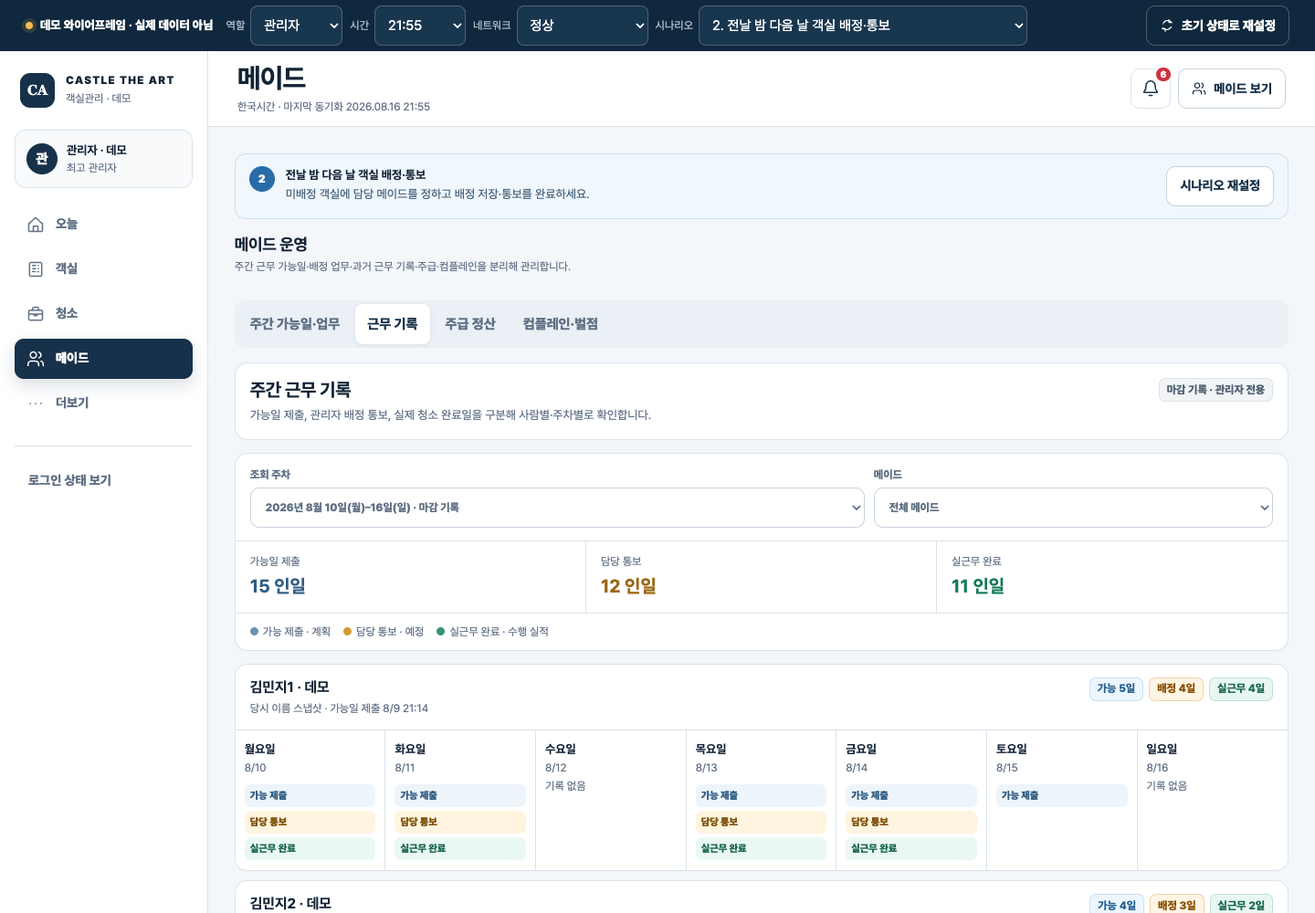
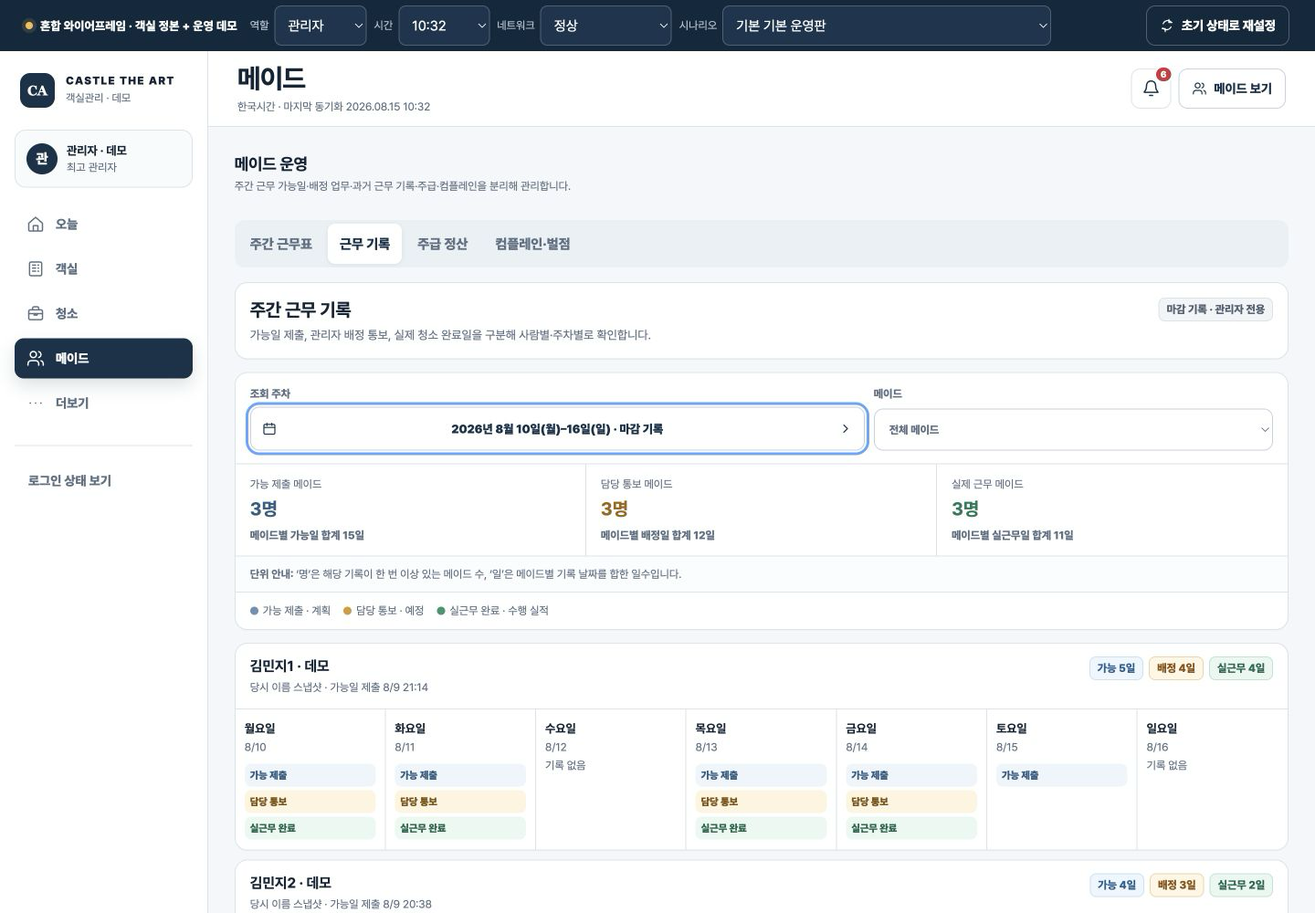
개선: 근무 기록 주차 달력과 명·일 단위를 분리하라

diff --git a/WIREFRAME/index.html b/WIREFRAME/index.html
@@ -1095,16 +1095,19 @@
     .work-history-hero > div { min-width:0; flex:1; }
     .work-history-hero h2 { margin:0 0 4px; font-size:1.25rem; }
     .work-history-hero p { margin:0; color:var(--muted); font-size:13px; }
-    .work-history-toolbar { display:grid; grid-template-columns:minmax(220px,1fr) minmax(180px,.65fr); gap:10px; padding:14px 16px; border-bottom:1px solid var(--line); }
-    .work-history-toolbar label { display:grid; gap:5px; color:var(--muted); font-size:12px; font-weight:800; }
+    .work-history-toolbar { display:grid; grid-template-columns:minmax(260px,1fr) minmax(180px,.65fr); gap:10px; padding:14px 16px; border-bottom:1px solid var(--line); }
+    .work-history-toolbar label, .work-history-week-field { display:grid; gap:5px; color:var(--muted); font-size:12px; font-weight:800; }
+    .work-history-week-picker { width:100%; color:var(--navy); }
     .work-history-summary { display:grid; grid-template-columns:repeat(3,minmax(0,1fr)); border-bottom:1px solid var(--line); }
-    .work-history-summary > div { min-height:78px; padding:13px 16px; border-right:1px solid var(--line); }
+    .work-history-summary > div { min-height:96px; padding:13px 16px; border-right:1px solid var(--line); }
     .work-history-summary > div:last-child { border-right:0; }
     .work-history-summary span { display:block; color:var(--muted); font-size:12px; }
     .work-history-summary strong { display:block; margin-top:3px; font-size:1.25rem; }
+    .work-history-summary small { display:block; margin-top:5px; color:var(--muted); font-size:12px; font-weight:750; }
     .work-history-summary .planned strong { color:#315d83; }
     .work-history-summary .assigned strong { color:#9a6813; }
     .work-history-summary .completed strong { color:var(--green); }
+    .work-history-unit-note { margin:0; padding:10px 16px; border-bottom:1px solid var(--line); color:var(--muted); background:#fbfcfe; font-size:12px; line-height:1.55; }
     .work-history-legend { display:flex; flex-wrap:wrap; gap:8px 14px; padding:11px 16px; color:var(--muted); font-size:12px; }
     .work-history-legend span { display:inline-flex; align-items:center; gap:5px; }
     .history-dot { width:9px; height:9px; border-radius:50%; background:#6b91b2; }
@@ -1190,7 +1193,7 @@
       .work-history-hero { flex-direction:column; }
       .work-history-toolbar { grid-template-columns:1fr; padding:13px; }
       .work-history-summary { grid-template-columns:1fr; }
-      .work-history-summary > div { min-height:64px; border-right:0; border-bottom:1px solid var(--line); }
+      .work-history-summary > div { min-height:84px; border-right:0; border-bottom:1px solid var(--line); }
       .work-history-summary > div:last-child { border-bottom:0; }
       .work-history-person-head { flex-direction:column; }
       .work-history-counts { justify-content:flex-start; }
@@ -1600,7 +1603,7 @@
           detail:state.detail?{type:String(state.detail.type),id:String(state.detail.id),...(state.detail.mode?{mode:String(state.detail.mode)}:{})}:null,
           date:state.selectedDate,filter:state.roomFilter,typeFilter:state.roomTypeFilter,q:state.roomSearch,
           scrollY:Math.max(0,Math.round(Number(scrollY)||0)),loggedIn:state.loggedIn!==false,
-          adminMaidTab:state.adminMaidTab,workHistoryWeek:state.workHistoryWeek,workHistoryMaid:state.workHistoryMaid,cleaningTab:state.cleaningTab,assignmentTypeFilter:state.assignmentTypeFilter,adminPayWeek:state.adminPayWeek,
+          adminMaidTab:state.adminMaidTab,workHistoryWeek:state.workHistoryWeek,workHistoryMaid:state.workHistoryMaid,calendarContext:state.calendarContext,calendarMonth:state.calendarMonth,cleaningTab:state.cleaningTab,assignmentTypeFilter:state.assignmentTypeFilter,adminPayWeek:state.adminPayWeek,
           maidPayFilter:state.maidPayFilter,maidPayOpenWeek:state.maidPayOpenWeek,maidPaySelectedWeek:state.maidPaySelectedWeek,
           templateChange:pendingTemplateChange?cloneHistoryPayload(pendingTemplateChange):null
         };
@@ -1704,8 +1707,11 @@
         if(['all',...Object.keys(ROOM_TYPES)].includes(route.typeFilter))state.roomTypeFilter=route.typeFilter;
         if(/^\d{0,6}$/.test(route.q||''))state.roomSearch=route.q||'';
         if(['workforce','history','pay','complaints'].includes(route.adminMaidTab))state.adminMaidTab=route.adminMaidTab;
-        if(/^2026-\d{2}-\d{2}$/.test(route.workHistoryWeek||''))state.workHistoryWeek=route.workHistoryWeek;
+        const restoredWorkHistoryWeek=normalizeWorkHistoryWeek(route.workHistoryWeek);
+        if(restoredWorkHistoryWeek)state.workHistoryWeek=restoredWorkHistoryWeek;
         if(route.workHistoryMaid==='all'||MAIDS.some(maid=>maid.id===route.workHistoryMaid))state.workHistoryMaid=route.workHistoryMaid;
+        state.calendarContext=['room','admin-pay','maid-pay','work-history'].includes(route.calendarContext)?route.calendarContext:null;
+        if(/^\d{4}-(0[1-9]|1[0-2])$/.test(route.calendarMonth||''))state.calendarMonth=route.calendarMonth;
         if(['assignment','progress','inspection','done'].includes(route.cleaningTab))state.cleaningTab=route.cleaningTab;
         if(['all',...Object.keys(ROOM_TYPES)].includes(route.assignmentTypeFilter))state.assignmentTypeFilter=route.assignmentTypeFilter;
         const restoredAdminPayWeek=normalizePayWeek(route.adminPayWeek);
@@ -2519,6 +2525,14 @@
         const start=weekStartIso(value);
         return start<='2026-08-10'?start:null;
       }
+      function normalizeWorkHistoryWeek(value) {
+        if(!/^\d{4}-\d{2}-\d{2}$/.test(value||''))return null;
+        const date=dateObject(value);
+        if(dateIso(date)!==value)return null;
+        const start=weekStartIso(value);
+        return start<='2026-08-17'?start:null;
+      }
+      function workHistoryCalendarAllowed() { return state.loggedIn!==false&&state.role==='admin'&&state.adminView==='maids'&&state.adminMaidTab==='history'; }
       function weekRangeLabel(start,withYear=false) {
         const from=dateObject(start),to=new Date(from);to.setDate(from.getDate()+6);
         const prefix=withYear?`${from.getFullYear()}년 `:'';
@@ -2538,16 +2552,17 @@
 
       function calendarMarkup() {
         const [year,month]=state.calendarMonth.split('-').map(Number);
-        const payMode=state.calendarContext==='admin-pay'||state.calendarContext==='maid-pay';
-        const paySelected=state.calendarContext==='admin-pay'?state.adminPayWeek:(state.maidPaySelectedWeek||state.maidPayOpenWeek||'2026-08-03');
-        const first=new Date(year,month-1,1), offset=payMode?(first.getDay()+6)%7:first.getDay(), start=new Date(year,month-1,1-offset);
+        const weekMode=['admin-pay','maid-pay','work-history'].includes(state.calendarContext);
+        const weekSelectedStart=state.calendarContext==='admin-pay'?state.adminPayWeek:state.calendarContext==='maid-pay'?(state.maidPaySelectedWeek||state.maidPayOpenWeek||'2026-08-03'):state.workHistoryWeek;
+        const latestWeek=state.calendarContext==='work-history'?'2026-08-17':'2026-08-10';
+        const first=new Date(year,month-1,1), offset=weekMode?(first.getDay()+6)%7:first.getDay(), start=new Date(year,month-1,1-offset);
         const days=Array.from({length:42},(_,i)=>{const d=new Date(start);d.setDate(start.getDate()+i);return d;});
         return `<div class="calendar-backdrop" data-action="calendar-backdrop"><section class="calendar-dialog" role="dialog" aria-modal="true" aria-labelledby="calendar-title">
           <div class="calendar-head"><button class="icon-btn" type="button" data-action="calendar-month" data-offset="-1" aria-label="이전 달">${icon('chevronLeft')}</button><strong id="calendar-title">${year}년 ${month}월</strong><button class="icon-btn" type="button" data-action="calendar-month" data-offset="1" aria-label="다음 달">${icon('chevronRight')}</button></div>
-          ${payMode?`<p class="pay-week-calendar-note">날짜를 누르면 그 날짜가 포함된 월요일–일요일 주차를 선택합니다.</p>`:''}
-          <div class="calendar-week" aria-hidden="true">${(payMode?['월','화','수','목','금','토','일']:['일','월','화','수','목','금','토']).map(v=>`<span>${v}</span>`).join('')}</div>
-          <div class="calendar-grid">${days.map(d=>{const iso=dateIso(d), other=d.getMonth()!==month-1, today=iso==='2026-08-15', weekSelected=payMode&&weekStartIso(iso)===paySelected, selected=payMode?iso===paySelected:iso===state.selectedDate, future=payMode&&weekStartIso(iso)>'2026-08-10';return `<button type="button" class="calendar-day ${other?'other':''} ${today?'today':''} ${weekSelected?'week-selected':''} ${selected?'selected':''}" data-action="calendar-select" data-date="${iso}" ${payMode?`aria-pressed="${weekSelected}"`:`aria-current="${selected?'date':'false'}"`} aria-label="${d.getFullYear()}년 ${d.getMonth()+1}월 ${d.getDate()}일${today?' 오늘':''}${weekSelected?' 선택 주차':''}" ${future?'disabled':''}>${d.getDate()}</button>`;}).join('')}</div>
-          <div class="calendar-foot">${button(payMode?'이번 주':'오늘로 이동','calendar-today','outline')}${button('닫기','calendar-close','soft')}</div>
+          ${weekMode?`<p class="pay-week-calendar-note">날짜를 누르면 그 날짜가 포함된 월요일–일요일 주차를 선택합니다.</p>`:''}
+          <div class="calendar-week" aria-hidden="true">${(weekMode?['월','화','수','목','금','토','일']:['일','월','화','수','목','금','토']).map(v=>`<span>${v}</span>`).join('')}</div>
+          <div class="calendar-grid">${days.map(d=>{const iso=dateIso(d), other=d.getMonth()!==month-1, today=iso==='2026-08-15', weekSelected=weekMode&&weekStartIso(iso)===weekSelectedStart, selected=weekMode?iso===weekSelectedStart:iso===state.selectedDate, future=weekMode&&weekStartIso(iso)>latestWeek;return `<button type="button" class="calendar-day ${other?'other':''} ${today?'today':''} ${weekSelected?'week-selected':''} ${selected?'selected':''}" data-action="calendar-select" data-date="${iso}" ${weekMode?`aria-pressed="${weekSelected}"`:`aria-current="${selected?'date':'false'}"`} aria-label="${d.getFullYear()}년 ${d.getMonth()+1}월 ${d.getDate()}일${today?' 오늘':''}${weekSelected?' 선택 주차':''}" ${future?'disabled':''}>${d.getDate()}</button>`;}).join('')}</div>
+          <div class="calendar-foot">${button(weekMode?'이번 주':'오늘로 이동','calendar-today','outline')}${button('닫기','calendar-close','soft')}</div>
         </section></div>`;
       }
       function openCalendar(trigger=document.activeElement,context='room') {
@@ -2555,10 +2570,10 @@
         modalTrigger=trigger;
         document.getElementById('modal-root').innerHTML=calendarMarkup();
         setModalBackgroundLocked(true);document.body.classList.add('modal-open');
-        registerModalHistory({kind:'calendar'});
-        requestAnimationFrame(()=>(document.querySelector('.calendar-day.selected')||document.querySelector('.calendar-day'))?.focus());
+        registerModalHistory({kind:'calendar',payload:{context,month:state.calendarMonth}});
+        requestAnimationFrame(()=>(document.querySelector('.calendar-day.selected:not(:disabled)')||document.querySelector('.calendar-day:not(:disabled)')||document.querySelector('[data-action="calendar-close"]'))?.focus());
       }
-      function rerenderCalendar() { document.getElementById('modal-root').innerHTML=calendarMarkup();registerModalHistory();requestAnimationFrame(()=>(document.querySelector('.calendar-day.selected')||document.querySelector('.calendar-day'))?.focus()); }
+      function rerenderCalendar() { document.getElementById('modal-root').innerHTML=calendarMarkup();registerModalHistory({kind:'calendar',payload:{context:state.calendarContext,month:state.calendarMonth}});requestAnimationFrame(()=>(document.querySelector('.calendar-day.selected:not(:disabled)')||document.querySelector('.calendar-day:not(:disabled)')||document.querySelector('[data-action="calendar-close"]'))?.focus()); }
 
       function renderAccordion(key,title,count,body,open=false) {
         const expanded=state.todaySections[key] ?? open;
@@ -2895,12 +2910,14 @@
         return [currentWorkHistoryWeek(),...fixtures];
       }
       function renderWorkHistory() {
-        const weeks=workHistoryWeeks(),week=weeks.find(item=>item.start===state.workHistoryWeek)||weeks[1]||weeks[0],selectedMaid=state.workHistoryMaid||'all';
+        const weeks=workHistoryWeeks(),week=weeks.find(item=>item.start===state.workHistoryWeek)||{start:state.workHistoryWeek,status:'기록 없음',records:{}},selectedMaid=state.workHistoryMaid||'all';
         const people=MAIDS.filter(maid=>selectedMaid==='all'||maid.id===selectedMaid).map(maid=>({maid,record:week.records[maid.id]})).filter(item=>item.record);
         const totals=people.reduce((sum,item)=>({submitted:sum.submitted+item.record.submitted.length,assigned:sum.assigned+item.record.assigned.length,completed:sum.completed+item.record.completed.length}),{submitted:0,assigned:0,completed:0});
+        const maidCounts={submitted:people.filter(item=>item.record.submitted.length>0).length,assigned:people.filter(item=>item.record.assigned.length>0).length,completed:people.filter(item=>item.record.completed.length>0).length};
         const dayNames=['월','화','수','목','금','토','일'];
         const cards=people.map(({maid,record})=>{const days=dayNames.map((name,index)=>{const iso=addIsoDays(week.start,index),flags=[];if(record.submitted.includes(index))flags.push('<span class="work-history-flag">가능 제출</span>');if(record.assigned.includes(index))flags.push('<span class="work-history-flag assigned">담당 통보</span>');if(record.completed.includes(index))flags.push('<span class="work-history-flag completed">실근무 완료</span>');return `<div class="work-history-day"><strong>${name}요일</strong><span>${shortIsoDate(iso)}</span>${flags.length?`<div class="work-history-flags">${flags.join('')}</div>`:'<span class="work-history-empty">기록 없음</span>'}</div>`;}).join('');return `<article class="card work-history-person"><div class="work-history-person-head"><div><h3>${esc(record.nameSnapshot)} · 데모</h3><p>당시 이름 스냅샷 · 가능일 제출 ${esc(record.submittedAt)}${record.submissionVersions?` · 제출 버전 ${record.submissionVersions}개 보존`:''}</p></div><div class="work-history-counts">${statusBadge(`가능 ${record.submitted.length}일`,'blue')}${statusBadge(`배정 ${record.assigned.length}일`,'amber')}${statusBadge(`실근무 ${record.completed.length}일`,'green')}</div></div><div class="work-history-days" aria-label="${esc(record.nameSnapshot)} ${weekRangeLabel(week.start)} 주간 기록">${days}</div></article>`;}).join('');
-        return `<div class="work-history-page"><section class="card work-history-hero"><div><h2>주간 근무 기록</h2><p>가능일 제출, 관리자 배정 통보, 실제 청소 완료일을 구분해 사람별·주차별로 확인합니다.</p></div>${statusBadge(`${week.status} · 관리자 전용`,week.status==='계획 중'?'blue':'neutral')}</section><section class="card"><div class="work-history-toolbar"><label for="work-history-week">조회 주차<select id="work-history-week" class="select-control" data-control="work-history-week">${weeks.map(item=>`<option value="${item.start}" ${item.start===week.start?'selected':''}>${weekRangeLabel(item.start,true)} · ${item.status}</option>`).join('')}</select></label><label for="work-history-maid">메이드<select id="work-history-maid" class="select-control" data-control="work-history-maid"><option value="all" ${selectedMaid==='all'?'selected':''}>전체 메이드</option>${MAIDS.map(maid=>`<option value="${maid.id}" ${selectedMaid===maid.id?'selected':''}>${esc(maid.name)}</option>`).join('')}</select></label></div><div class="work-history-summary"><div class="planned"><span>가능일 제출</span><strong>${totals.submitted} 인일</strong></div><div class="assigned"><span>담당 통보</span><strong>${totals.assigned} 인일</strong></div><div class="completed"><span>실근무 완료</span><strong>${totals.completed} 인일</strong></div></div><div class="work-history-legend"><span><i class="history-dot"></i>가능 제출 · 계획</span><span><i class="history-dot assigned"></i>담당 통보 · 예정</span><span><i class="history-dot completed"></i>실근무 완료 · 수행 실적</span></div></section><div class="work-history-list">${cards}</div><section class="card work-history-contract"><p><strong>기록 기준:</strong> 가능일은 제출 버전, 배정일은 관리자 통보 이벤트, 실근무일은 정상 청소 수행 회차의 현장 완료일입니다. 가능일만 제출한 날짜는 실제 근무로 세지 않으며, 과거 주차는 현재 제출·재배정으로 덮어쓰지 않습니다. 이 화면은 서버 영속 저장이 아닌 결정적 데모 fixture입니다.</p></section></div>`;
+        const list=cards||`<section class="card empty-state"><h3>이 주차에는 저장된 근무 기록이 없습니다.</h3><p>다른 주차를 달력에서 선택하거나 메이드 필터를 바꿔 보세요.</p></section>`;
+        return `<div class="work-history-page"><section class="card work-history-hero"><div><h2>주간 근무 기록</h2><p>가능일 제출, 관리자 배정 통보, 실제 청소 완료일을 구분해 사람별·주차별로 확인합니다.</p></div>${statusBadge(`${week.status} · 관리자 전용`,week.status==='계획 중'?'blue':'neutral')}</section><section class="card"><div class="work-history-toolbar"><div class="work-history-week-field"><span id="work-history-week-label">조회 주차</span><button class="pay-week-picker work-history-week-picker" type="button" data-action="open-work-history-calendar" aria-haspopup="dialog" aria-labelledby="work-history-week-label work-history-week-value">${icon('calendar','icon-sm')}<span id="work-history-week-value">${weekRangeLabel(week.start,true)} · ${week.status}</span>${icon('chevronRight','icon-sm')}</button></div><label for="work-history-maid">메이드<select id="work-history-maid" class="select-control" data-control="work-history-maid"><option value="all" ${selectedMaid==='all'?'selected':''}>전체 메이드</option>${MAIDS.map(maid=>`<option value="${maid.id}" ${selectedMaid===maid.id?'selected':''}>${esc(maid.name)}</option>`).join('')}</select></label></div><div class="work-history-summary"><div class="planned"><span>가능 제출 메이드</span><strong>${maidCounts.submitted}명</strong><small>메이드별 가능일 합계 ${totals.submitted}일</small></div><div class="assigned"><span>담당 통보 메이드</span><strong>${maidCounts.assigned}명</strong><small>메이드별 배정일 합계 ${totals.assigned}일</small></div><div class="completed"><span>실제 근무 메이드</span><strong>${maidCounts.completed}명</strong><small>메이드별 실근무일 합계 ${totals.completed}일</small></div></div><p class="work-history-unit-note"><strong>단위 안내:</strong> ‘명’은 해당 기록이 한 번 이상 있는 메이드 수, ‘일’은 메이드별 기록 날짜를 합한 일수입니다.</p><div class="work-history-legend"><span><i class="history-dot"></i>가능 제출 · 계획</span><span><i class="history-dot assigned"></i>담당 통보 · 예정</span><span><i class="history-dot completed"></i>실근무 완료 · 수행 실적</span></div></section><div class="work-history-list">${list}</div><section class="card work-history-contract"><p><strong>기록 기준:</strong> 가능일은 제출 버전, 배정일은 관리자 통보 이벤트, 실근무일은 정상 청소 수행 회차의 현장 완료일입니다. 가능일만 제출한 날짜는 실제 근무로 세지 않으며, 과거 주차는 현재 제출·재배정으로 덮어쓰지 않습니다. 이 화면은 서버 영속 저장이 아닌 결정적 데모 fixture입니다.</p></section></div>`;
       }
 
       function renderMaids() {
@@ -3760,7 +3777,7 @@
         const confirm=document.querySelector('[data-action="confirm-start-deactivation-v2"]');if(confirm)confirm.disabled=isLocked();
       }
 
-      const rebuiltActions=new Set(['toggle-demo','reset','switch-role','nav','filter-rooms','back','close-modal','backdrop-close','room-detail','cleaning-detail','maid-detail','complaint-detail','pay-detail','template','template-detail','template-back-list','template-edit','template-cancel-edit','template-review','template-save','inspection-photo','open-room-export','export-rooms-csv','export-rooms-xls','open-calendar','open-pay-calendar','calendar-backdrop','calendar-close','calendar-month','calendar-select','calendar-today','date-shift','date-today','toggle-section','clear-room-filters','pin-show','pin-hide','pin-edit','pin-clear','pin-random','pin-review','pin-back','pin-save','reservation-edit','new-reservation','save-reservation-v2','create-stayover','confirm-stayover','operation-status','confirm-operation-stop','resume-operation','candle-change','task-candle-change','direct-assign','confirm-direct-assign','cleaning-tab','assignment-type-filter','admin-maid-tab','go-today','go-workforce','go-work-history','go-payroll','go-complaints','go-cleaning-drafts','go-cleaning-assignment','go-inspection','go-open','go-schedule','go-my','go-maid-pay','toggle-maid-pay-week','clear-maid-pay-week','new-cleaning','confirm-new-cleaning','toggle-week-day','submit-week-availability','edit-week-availability','request-availability-change','move-assignment-order','save-assignments','set-availability','change-availability','confirm-off-active','claim-job','confirm-claim','start-cleaning','confirm-start','add-task-photo','add-task-photos','retry-task-photo','retry-all-task-photos','field-complete-v2','submit-cleaning-v2','approve-inspection-v2','reject-inspection-v2','confirm-approve-v2','confirm-reject-v2','toggle-payment','confirm-toggle-payment','confirm-reverse-payment','undo-payment','delete-complaint','undo-complaint','publish-selected','confirm-publish','retry-network','alerts','audit-log','rates','logout','request-cancel','confirm-request-cancel','cancel-review','confirm-cancel','rule-complaint-v2','ack-complaint','object-complaint','confirm-objection','close-complaint-v2','correct-complaint-v2','confirm-correct-complaint-v2','reclean-existing','demo-info','notification-permission','confirm-notification-permission']);
+      const rebuiltActions=new Set(['toggle-demo','reset','switch-role','nav','filter-rooms','back','close-modal','backdrop-close','room-detail','cleaning-detail','maid-detail','complaint-detail','pay-detail','template','template-detail','template-back-list','template-edit','template-cancel-edit','template-review','template-save','inspection-photo','open-room-export','export-rooms-csv','export-rooms-xls','open-calendar','open-pay-calendar','open-work-history-calendar','calendar-backdrop','calendar-close','calendar-month','calendar-select','calendar-today','date-shift','date-today','toggle-section','clear-room-filters','pin-show','pin-hide','pin-edit','pin-clear','pin-random','pin-review','pin-back','pin-save','reservation-edit','new-reservation','save-reservation-v2','create-stayover','confirm-stayover','operation-status','confirm-operation-stop','resume-operation','candle-change','task-candle-change','direct-assign','confirm-direct-assign','cleaning-tab','assignment-type-filter','admin-maid-tab','go-today','go-workforce','go-work-history','go-payroll','go-complaints','go-cleaning-drafts','go-cleaning-assignment','go-inspection','go-open','go-schedule','go-my','go-maid-pay','toggle-maid-pay-week','clear-maid-pay-week','new-cleaning','confirm-new-cleaning','toggle-week-day','submit-week-availability','edit-week-availability','request-availability-change','move-assignment-order','save-assignments','set-availability','change-availability','confirm-off-active','claim-job','confirm-claim','start-cleaning','confirm-start','add-task-photo','add-task-photos','retry-task-photo','retry-all-task-photos','field-complete-v2','submit-cleaning-v2','approve-inspection-v2','reject-inspection-v2','confirm-approve-v2','confirm-reject-v2','toggle-payment','confirm-toggle-payment','confirm-reverse-payment','undo-payment','delete-complaint','undo-complaint','publish-selected','confirm-publish','retry-network','alerts','audit-log','rates','logout','request-cancel','confirm-request-cancel','cancel-review','confirm-cancel','rule-complaint-v2','ack-complaint','object-complaint','confirm-objection','close-complaint-v2','correct-complaint-v2','confirm-correct-complaint-v2','reclean-existing','demo-info','notification-permission','confirm-notification-permission']);
       ['resolve-conflict-v2','confirm-conflict-v2','deactivate-maid-v2','confirm-start-deactivation-v2','complete-deactivation-v2','admin-pay-week','export-rooms-xlsx','room-issue-photo','choose-room-issue-files','remove-room-issue-photo','save-room-issue','bomb-room-photo','choose-bomb-room-files','remove-bomb-room-photo','add-demo-bomb-room-photos','save-bomb-room-report','approve-bomb-room','reject-bomb-room','confirm-approve-bomb-room','confirm-reject-bomb-room'].forEach(action=>rebuiltActions.add(action));
       const deprecatedStateActions=new Set(['add-photo','add-photos','retry-photo','field-complete','submit-cleaning','approve-inspection','reject-inspection','confirm-approve','confirm-reject','recover-candle','confirm-candle','save-reservation','show-pin','hide-pin','resolve-conflict','confirm-conflict','deactivate-maid','confirm-deactivate','start-payment','confirm-payment','finish-payment','payment-check','payment-open','rule-complaint','confirm-ruling','close-complaint','correct-complaint','publish-template','change-availability','confirm-off-active']);
       deprecatedStateActions.forEach(action=>rebuiltActions.add(action));
@@ -3923,24 +3940,30 @@
           const selected=context==='maid-pay'?(state.maidPaySelectedWeek||state.maidPayOpenWeek||'2026-08-03'):(state.adminPayWeek||'2026-08-03');
           state.calendarMonth=selected.slice(0,7);openCalendar(el,context);return;
         }
+        if(a==='open-work-history-calendar'){if(!workHistoryCalendarAllowed()){toast('관리자 근무 기록 화면에서만 주차를 선택할 수 있습니다.','error');return;}state.calendarMonth=state.workHistoryWeek.slice(0,7);openCalendar(el,'work-history');return;}
         if(a==='calendar-month'){const [y,m]=state.calendarMonth.split('-').map(Number),d=new Date(y,m-1+Number(el.dataset.offset),1);state.calendarMonth=`${d.getFullYear()}-${String(d.getMonth()+1).padStart(2,'0')}`;rerenderCalendar();return;}
         if(a==='calendar-select'){
           const context=state.calendarContext;
-          if(context==='admin-pay'||context==='maid-pay'){
-            const start=weekStartIso(el.dataset.date);
+          if(context==='admin-pay'||context==='maid-pay'||context==='work-history'){
+            if(context==='work-history'&&!workHistoryCalendarAllowed()){closeModal();state.calendarContext=null;render();toast('관리자 근무 기록 화면에서만 주차를 바꿀 수 있습니다.','error');return;}
+            const start=context==='work-history'?normalizeWorkHistoryWeek(el.dataset.date):weekStartIso(el.dataset.date);
+            if(!start){toast('선택할 수 없는 주차입니다.','error');return;}
             if(context==='admin-pay')state.adminPayWeek=start;
-            else {state.maidPaySelectedWeek=start;state.maidPayOpenWeek=start;state.maidPayFilter='all';}
-            closeModal();state.calendarContext=null;render();requestAnimationFrame(()=>document.querySelector(`[data-action="open-pay-calendar"][data-context="${context}"]`)?.focus());toast(`${weekRangeLabel(start)} 지급 이력을 표시합니다.`);return;
+            else if(context==='maid-pay'){state.maidPaySelectedWeek=start;state.maidPayOpenWeek=start;state.maidPayFilter='all';}
+            else state.workHistoryWeek=start;
+            closeModal();state.calendarContext=null;render();requestAnimationFrame(()=>document.querySelector(context==='work-history'?'[data-action="open-work-history-calendar"]':`[data-action="open-pay-calendar"][data-context="${context}"]`)?.focus());toast(`${weekRangeLabel(start)} ${context==='work-history'?'근무 기록':'지급 이력'}을 표시합니다.`);return;
           }
           state.selectedDate=el.dataset.date;state.calendarMonth=state.selectedDate.slice(0,7);closeModal();state.calendarContext=null;render();requestAnimationFrame(()=>document.querySelector('[data-action="open-calendar"]')?.focus());toast(`${dateLabel()} 현황을 표시합니다.`);return;
         }
         if(a==='calendar-today'){
           const context=state.calendarContext;
-          if(context==='admin-pay'||context==='maid-pay'){
+          if(context==='admin-pay'||context==='maid-pay'||context==='work-history'){
+            if(context==='work-history'&&!workHistoryCalendarAllowed()){closeModal();state.calendarContext=null;render();toast('관리자 근무 기록 화면에서만 주차를 바꿀 수 있습니다.','error');return;}
             const start='2026-08-10';
             if(context==='admin-pay')state.adminPayWeek=start;
-            else {state.maidPaySelectedWeek=start;state.maidPayOpenWeek=start;state.maidPayFilter='all';}
-            closeModal();state.calendarContext=null;render();requestAnimationFrame(()=>document.querySelector(`[data-action="open-pay-calendar"][data-context="${context}"]`)?.focus());return;
+            else if(context==='maid-pay'){state.maidPaySelectedWeek=start;state.maidPayOpenWeek=start;state.maidPayFilter='all';}
+            else state.workHistoryWeek=start;
+            closeModal();state.calendarContext=null;render();requestAnimationFrame(()=>document.querySelector(context==='work-history'?'[data-action="open-work-history-calendar"]':`[data-action="open-pay-calendar"][data-context="${context}"]`)?.focus());return;
           }
           state.selectedDate='2026-08-15';state.calendarMonth='2026-08';closeModal();state.calendarContext=null;render();requestAnimationFrame(()=>document.querySelector('[data-action="open-calendar"]')?.focus());return;
         }
@@ -4272,7 +4295,7 @@
       });
 
       document.addEventListener('change',e=>{
-        const c=e.target.dataset.control;if(!c||!['role','maid-account','scenario','room-filter','room-type-filter','maid-pay-filter','work-history-week','work-history-maid','task-check','task-candle','room-issue-type','room-issue-files','bomb-room-files','complaint-type','conflict-step-v2','maid-deactivation-gate','assignment-maid'].includes(c))return;
+        const c=e.target.dataset.control;if(!c||!['role','maid-account','scenario','room-filter','room-type-filter','maid-pay-filter','work-history-maid','task-check','task-candle','room-issue-type','room-issue-files','bomb-room-files','complaint-type','conflict-step-v2','maid-deactivation-gate','assignment-maid'].includes(c))return;
         e.stopImmediatePropagation();
         if(c==='role'){maskPin();closeModal();state.role=e.target.value;state.detail=null;render();requestAnimationFrame(()=>document.querySelector('[data-control="role"]')?.focus());return;}
         if(c==='maid-account'){if(state.role!=='maid')return;maskPin();closeModal();state.currentMaidId=MAIDS.some(maid=>maid.id===e.target.value)?e.target.value:'m1';syncSignedInMaidAvailability();state.detail=null;render();requestAnimationFrame(()=>document.querySelector('[data-control="maid-account"]')?.focus());toast(`${signedInMaidName()} 메이드 데모 계정으로 전환했습니다.`);return;}
@@ -4280,7 +4303,6 @@
         if(c==='room-filter'){state.roomFilter=e.target.value;render();requestAnimationFrame(()=>document.querySelector('[data-control="room-filter"]')?.focus());return;}
         if(c==='room-type-filter'){state.roomTypeFilter=e.target.value;render();requestAnimationFrame(()=>document.querySelector('[data-control="room-type-filter"]')?.focus());return;}
         if(c==='maid-pay-filter'){state.maidPayFilter=e.target.value;state.maidPaySelectedWeek=null;const visibleIds={all:['2026-08-10','2026-08-03','2026-07-27','2026-07-20','2026-07-13','2026-07-06'],current:['2026-08-10'],last:['2026-08-03'],older:['2026-07-27','2026-07-20','2026-07-13','2026-07-06']}[state.maidPayFilter]||[];if(!visibleIds.includes(state.maidPayOpenWeek))state.maidPayOpenWeek=visibleIds[0]||null;render();requestAnimationFrame(()=>document.querySelector('[data-control="maid-pay-filter"]')?.focus());return;}
-        if(c==='work-history-week'){state.workHistoryWeek=e.target.value;render();requestAnimationFrame(()=>document.querySelector('[data-control="work-history-week"]')?.focus());return;}
         if(c==='work-history-maid'){state.workHistoryMaid=e.target.value;render();requestAnimationFrame(()=>document.querySelector('[data-control="work-history-maid"]')?.focus());return;}
         if(c==='task-check'){const no=e.target.dataset.room,item=e.target.value;if(!maidCanEditCleaning(no)){render();toast('본인 담당 청소 중 작업의 체크만 변경할 수 있습니다.','error');return;}taskState(no).checklist[item]=e.target.checked;render();requestAnimationFrame(()=>document.querySelector(`[data-control="task-check"][data-room="${no}"][value="${item}"]`)?.focus());return;}
         if(c==='task-candle'){const no=e.target.dataset.room;if(!maidCanEditCleaning(no)){render();toast('본인 담당 청소 중 작업의 촛불 결과만 변경할 수 있습니다.','error');return;}taskState(no).candle=Number(e.target.value);render();requestAnimationFrame(()=>document.querySelector(`[data-control="task-candle"][data-room="${no}"]`)?.focus());return;}

diff --git a/DOCS/16_WEEKLY_AVAILABILITY_ASSIGNMENT_POLICY.md b/DOCS/16_WEEKLY_AVAILABILITY_ASSIGNMENT_POLICY.md
@@ -21,7 +21,7 @@
 9. 순서는 객실별 담당 행이 아니라 메이드별 보드에서 같은 메이드에게 배정된 객실끼리만 위·아래로 조정한다. 담당을 바꾸면 해당 객실은 새 메이드 순서의 마지막으로 이동하고 이전·새 메이드 양쪽 순서를 연속 번호로 다시 계산한다.
 10. 담당 선택 목록에는 해당 날짜를 `근무 가능`으로 제출한 메이드만 표시한다. `근무 불가` 또는 `미제출` 메이드는 예외 배정할 수 없으며, 먼저 가능일 변경 요청을 승인해 일정 기록을 바로잡아야 한다.
 11. 모든 청소대상을 다 배정하지 못해도, 담당 메이드와 해당 메이드 안의 연속 청소 순서가 정해진 객실만 먼저 저장·통보할 수 있다. 미배정 객실은 대기 상태로 유지하고 추후 담당을 정한 시점에 추가 통보한다. 배정·순서 변경은 기존 담당 구간과 이전 순서를 삭제하지 않고 변경 이력을 추가한다.
-12. 가능일 제출 버전, 관리자 배정·순서 통보일, 실제 청소 수행 완료일을 서로 다른 기록으로 주차별 보존하고 관리자가 사람·주차를 선택해 과거 기록을 조회한다.
+12. 가능일 제출 버전, 관리자 배정·순서 통보일, 실제 청소 수행 완료일을 서로 다른 기록으로 주차별 보존하고 관리자가 조회 주차(월요일–일요일)를 달력에서 고른 뒤 메이드별 과거 기록을 조회한다. 요약은 기록이 있는 고유 메이드를 `N명`, 메이드별 기록 날짜 합계를 `N일`로 분리하고 두 뜻을 섞은 단위는 사용하지 않는다.
 
 ### 예약 시각 기반 특수 입퇴실 판정
 
@@ -80,6 +80,7 @@
 - 청소대상 타입 필터: `전체 / 스탠다드 더블 로프트 / 프리미엄 더블 로프트 / 파셜 오션뷰 프리미엄 더블 로프트 / 파셜 오션뷰 패밀리 투룸 로프트`
 - 청소대상 등록 근거: `자동 · 내일 체크아웃 / 자동 · 연박 청소 신청 / 직접 등록`
 - 주간 근무 기록: `가능 제출(계획) / 담당 통보(예정) / 실근무 완료(수행 실적)`
+- 주간 근무 기록 요약 단위: `해당 기록이 한 번 이상 있는 메이드 N명 / 메이드별 기록 날짜 합계 N일`
 - 폭탄방 신고: `미신고 / 검수 대기 / 폭탄방 승인 · ×2 / 폭탄방 미인정`
 - 폭탄방 수익: `기본 청소요금 스냅샷 / 폭탄방 추가요금 / 해당 객실 확정 총액 / 적립 없음`
 - 재청소: `최초 청소한 본인 자동 귀속 / 무급 0원 / 타 메이드 이관 없음 / 폭탄방 추가요금·수익 원장 없음`
@@ -117,7 +118,7 @@
 - 담당을 선택·해제·변경할 때마다 근무 가능 메이드별 네 객실 타입의 배정 개수가 즉시 갱신된다. 0건인 타입도 숨기지 않으며, 타입 필터를 바꿔도 전체 배정 기준 개수는 유지하고 미배정 객실은 제외한다.
 - 미배정 객실이 있어도 담당이 정해진 객실이 한 건 이상이고, 그 담당이 해당 날짜 근무 가능자이며 메이드별 순서가 1부터 연속되면 배정된 객실만 저장·통보할 수 있다. 담당이 정해진 변경 건이 없거나 담당 가능일·순서가 유효하지 않을 때만 저장·통보가 잠긴다.
 - 부분 저장 뒤 해당 메이드의 내 업무·알림은 이번에 확정된 객실을 지정 순서대로 표시하고, 미배정 객실은 관리자 대기 영역에 그대로 남는다. 관리자 이력에는 이번 통보 수·누적 통보 수·남은 미배정 수와 이전·새 담당·순서가 함께 남는다.
-- 관리자는 주차·메이드를 필터링해 가능 제출일·배정 통보일·실근무 완료일을 과거에도 구분해 조회할 수 있다.
+- 관리자는 월요일–일요일 단위 달력에서 조회 주차를 고르고 메이드를 필터링해 가능 제출일·배정 통보일·실근무 완료일을 과거에도 구분해 조회할 수 있다. 인원은 `N명`, 날짜 합계는 `N일`로 각각 표시한다.
 - 메이드 역할로 관리자 배정 화면·상세 URL에 직접 진입할 수 없다.
 - 메이드는 본인 담당 객실에서 청소 시작 전부터 업로드 단계까지, 전체 제출 전에 이미지 1장 이상을 첨부해야 폭탄방 신고를 저장할 수 있다. 여러 이미지 선택과 개별 제거가 가능하다.
 - 폭탄방 신고를 포함해 전체 제출하면 증빙이 제출 버전에 잠기고, 관리자는 이미지 증빙을 확인해 인정 또는 미인정을 먼저 결정해야 전체 청소 승인·반려를 완료할 수 있다.

diff --git a/WIREFRAME/QA.md b/WIREFRAME/QA.md
@@ -261,10 +261,12 @@
 ### 6. 주간 근무 기록
 
 1. 배정 상단 `주간 근무 기록`에서 `메이드 → 근무 기록`으로 이동했다.
-2. 기본 선택인 2026-08-10–16에서 전체 3명의 가능 제출 15인일, 담당 통보 12인일, 실근무 완료 11인일을 확인했다.
-3. 주차를 2026-08-03–09, 메이드를 김민지2로 바꾸자 인물 카드가 1개로 줄고 가능 5일·배정 4일·실근무 4일로 바뀌었다.
-4. 각 날짜에서 `가능 제출`, `담당 통보`, `실근무 완료`가 독립 표식으로 보이며 가능 제출만 있는 날짜를 실근무로 세지 않는지 확인했다.
-5. 현재 계획 주차와 과거 마감 기록을 같은 필터에서 전환할 수 있고, 화면에 서버 영속 저장이 아닌 데모 fixture임을 명시했다.
+2. 기본 선택인 2026-08-10–16에서 `가능 제출 메이드 3명 / 메이드별 가능일 합계 15일`, `담당 통보 메이드 3명 / 메이드별 배정일 합계 12일`, `실제 근무 메이드 3명 / 메이드별 실근무일 합계 11일`을 확인했다. 사람 수는 `명`, 메이드별 날짜 합계는 `일`로 분리된다.
+3. `조회 주차` 버튼을 열자 월요일–일요일 순서의 월간 달력이 표시됐고, 8월 5일을 누르면 그 날짜가 속한 2026-08-03–09 주차로 전환됐다. 2026-08-24 이후 주차는 선택할 수 없게 잠겼다.
+4. 2026-08-03–09에서 메이드를 김민지2로 바꾸자 인물 카드가 1개로 줄고 세 요약이 각각 `1명`, 날짜 합계는 가능 5일·배정 4일·실근무 4일로 바뀌었다.
+5. 달력에서 7월로 이동한 뒤 브라우저 뒤로가기로 닫고 앞으로가기로 다시 열었을 때 7월과 월–일 주차 문맥이 복원됐다. 복원된 달력의 7월 29일을 선택하면 2026-07-27–08-02 주차가 표시됐고, `Escape`로 닫은 뒤 포커스가 `조회 주차` 버튼으로 돌아왔다.
+6. 360·390·768·1440px에서 가로 넘침 0건, 이름 없는 표시 컨트롤 0건, 표시 버튼 최소 크기 44px를 확인했다. 390px 달력도 너비 390px 안에서 가로 넘침 없이 표시됐다.
+7. 각 날짜의 `가능 제출`, `담당 통보`, `실근무 완료`가 독립 표식으로 보이고 가능 제출만 있는 날짜를 실근무로 세지 않는지 확인했다. 현재 계획 주차와 과거 마감 기록을 같은 달력에서 전환할 수 있으며, 콘솔 warning/error는 0건이었다.
 
 ## 시각 비교 기록
 
@@ -303,8 +305,10 @@
 - `QA/screenshots/admin-maid-type-distribution-1440.png`: 관리자 메이드별 네 타입 객실 수·총 객실 수·총 청소비와 1–3번째 청소 순서를 나란히 비교한 화면 1440×1000
 - `QA/screenshots/admin-auto-early-late-1440.png`: 실제 입퇴실 시각에서 계산된 얼리·레이트 상태와 차이가 보이는 객실 카드 1440×1000
 - `QA/screenshots/admin-auto-early-late-390.png`: 16:00·11:00 기준과 15:00·13:00 입력의 자동 판정 결과가 보이는 예약 대화상자 390×1000
-- `QA/screenshots/admin-weekly-work-history-1440.png`: 주차별 전체 메이드 근무 기록 데스크톱 1440×1000
-- `QA/screenshots/admin-weekly-work-history-390.png`: 김민지1 날짜별 계획·배정·실근무 기록 모바일 390×844
+- `QA/screenshots/admin-weekly-work-history-1440.png`: `메이드 3명`과 메이드별 날짜 합계 `15일·12일·11일`을 분리한 근무 기록 데스크톱 1440×1000
+- `QA/screenshots/admin-weekly-work-history-390.png`: 월–일 조회 주차 버튼과 `명 / 일` 분리 요약을 쌓아 표시한 근무 기록 모바일 390×844
+- `QA/screenshots/admin-weekly-work-history-calendar-1440.png`: 2026년 8월 월간 달력에서 8월 10–16일 주차를 한 줄로 선택한 데스크톱 1440×1000
+- `QA/screenshots/admin-weekly-work-history-calendar-390.png`: 월요일–일요일 주차 선택과 이후 주차 잠금이 보이는 모바일 바텀시트 390×844
 - `QA/screenshots/maid-weekly-availability-390.png`: 메이드 다음 주 가능일 모바일 390×844
 - `QA/screenshots/admin-type-photo-template-1440.png`: 관리자 4타입 청소 템플릿·참고 객실·활성 버전 1440px 확인
 - `QA/screenshots/maid-type-photo-template-390.png`: 메이드 528호 프리미어 퇴실 청소 v5·레이아웃 확인 보류·최소 공통 촬영 슬롯 390px 확인
